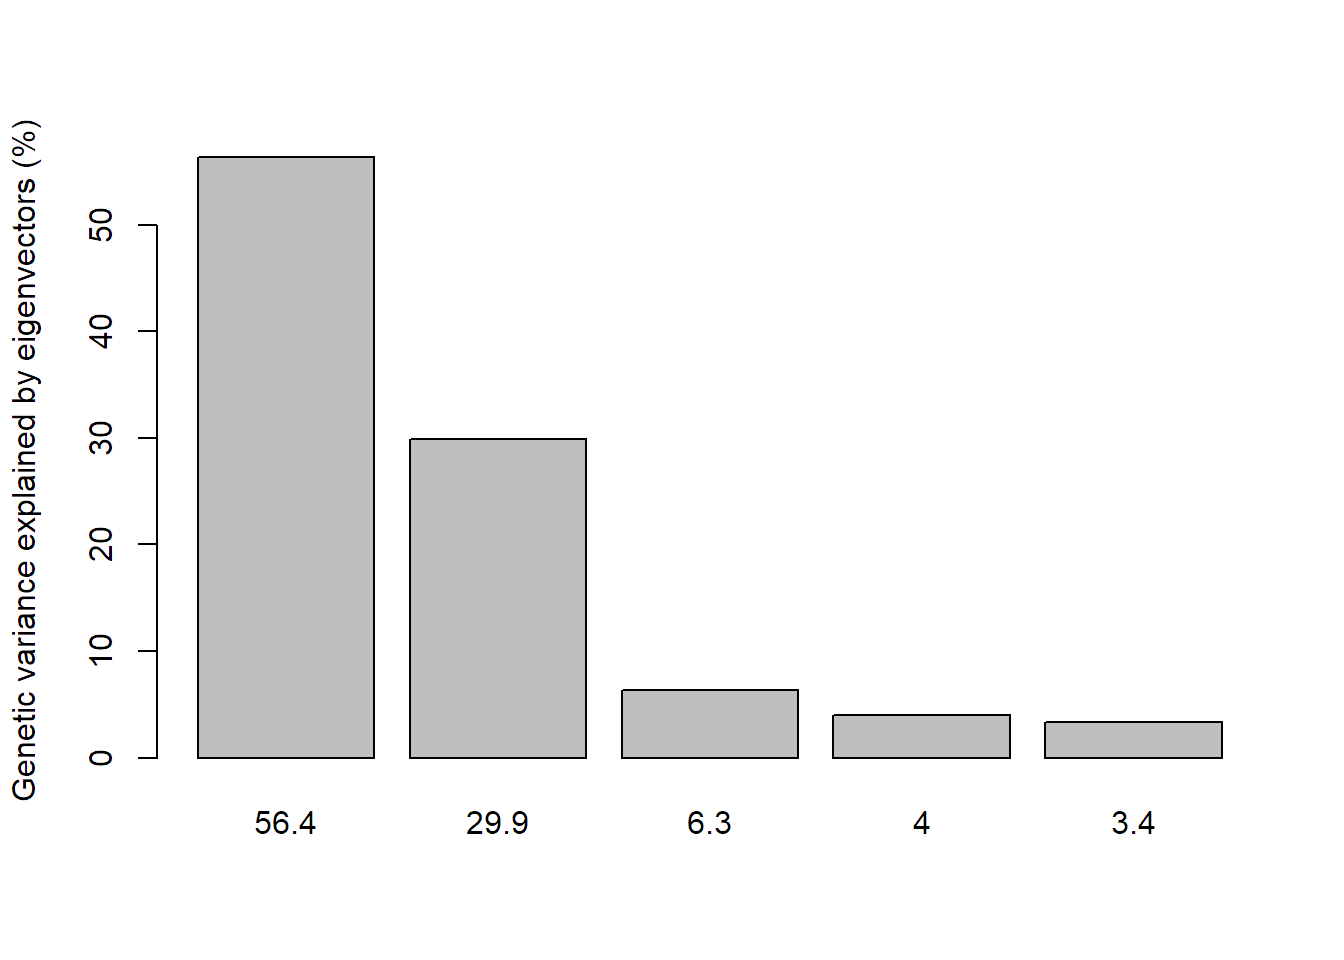
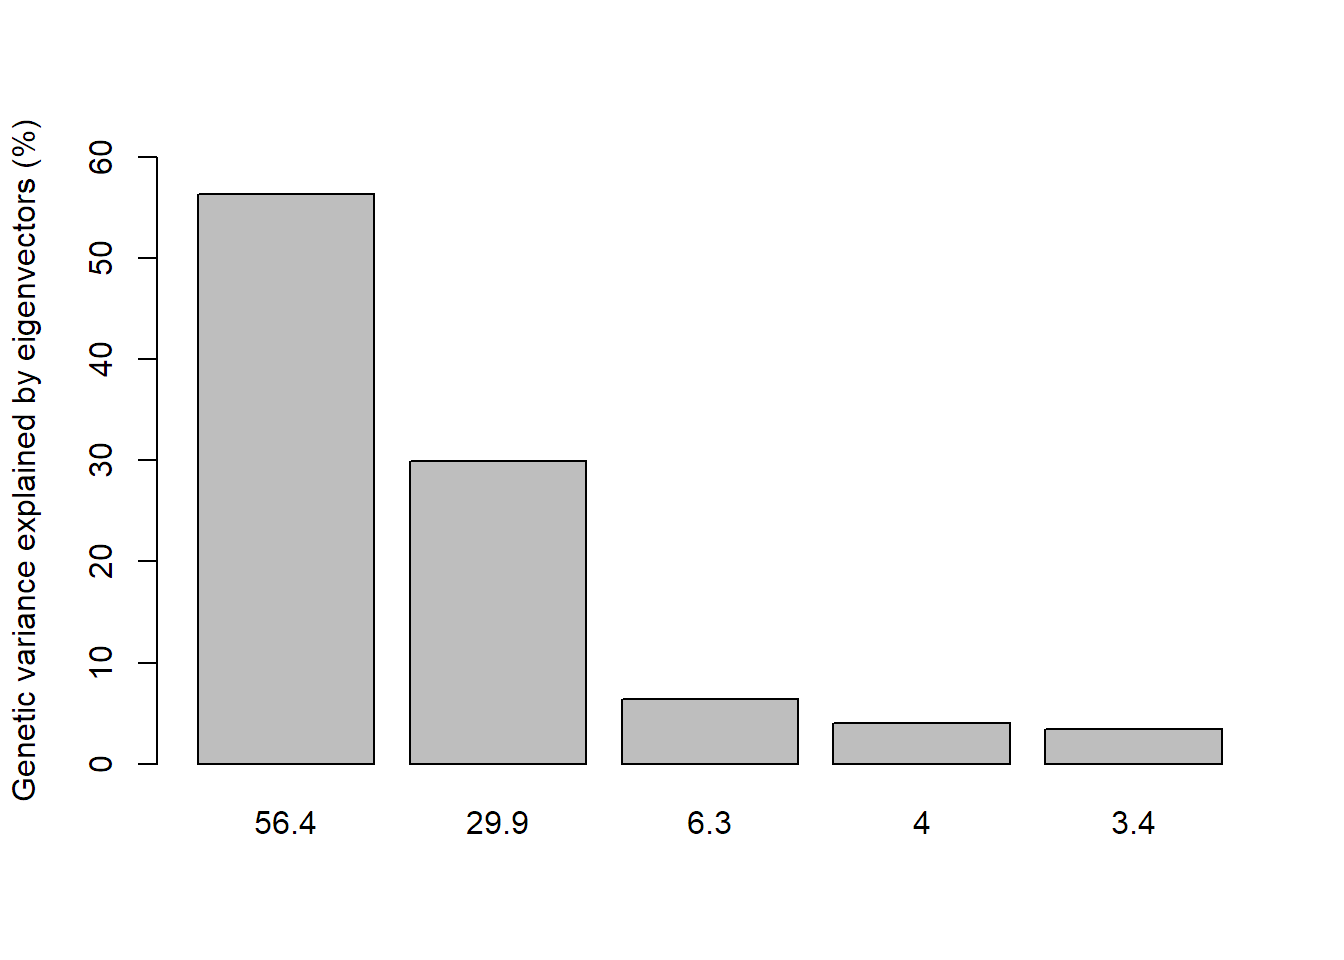
Update website

diff --git a/content/post/r-popgen-getting-started.html b/content/post/r-popgen-getting-started.html
@@ -694,8 +694,8 @@ pca1 = dudi.pca(x, scannf = FALSE, scale = FALSE, nf = 3)
 
 # Analyse how much percent of genetic variance is explained by each axis
 percent = pca1$eig/sum(pca1$eig)*100
-barplot(percent, ylab = &quot;Genetic variance explained by eigenvectors (%)&quot;,
-        names.arg = round(percent, 1), ylim = c(0, 12))</code></pre>
+barplot(percent, ylab = &quot;Genetic variance explained by eigenvectors (%)&quot;, ylim = c(0,12),
+        names.arg = round(percent, 1))</code></pre>
 <p><img src="/post/r-popgen-getting-started_files/figure-html/unnamed-chunk-41-1.png" width="672" /></p>
 <p>Visualise PCA results.</p>
 <pre class="r"><code># Create a data.frame containing individual coordinates
@@ -776,7 +776,7 @@ dapc1 = dapc(seafan_gen_sub, seafan_gen_sub$pop, n.pca = numPCs, n.da = 3)
 
 # Analyse how much percent of genetic variance is explained by each axis
 percent = dapc1$eig/sum(dapc1$eig)*100
-barplot(percent, ylab = &quot;Genetic variance explained by eigenvectors (%)&quot;, 
+barplot(percent, ylab = &quot;Genetic variance explained by eigenvectors (%)&quot;, ylim = c(0,60),
         names.arg = round(percent, 1))</code></pre>
 <p><img src="/post/r-popgen-getting-started_files/figure-html/unnamed-chunk-44-1.png" width="672" /></p>
 <p>Visualise DAPC results.</p>
